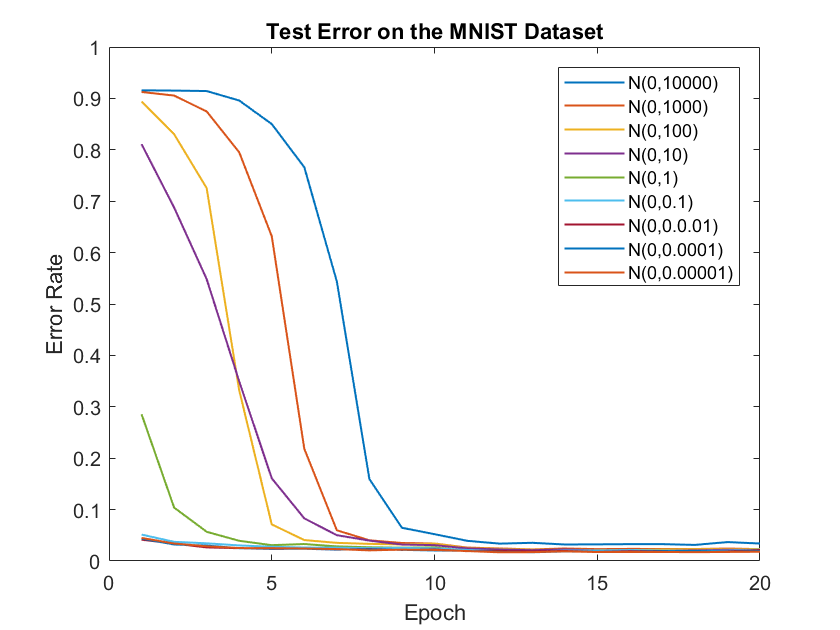
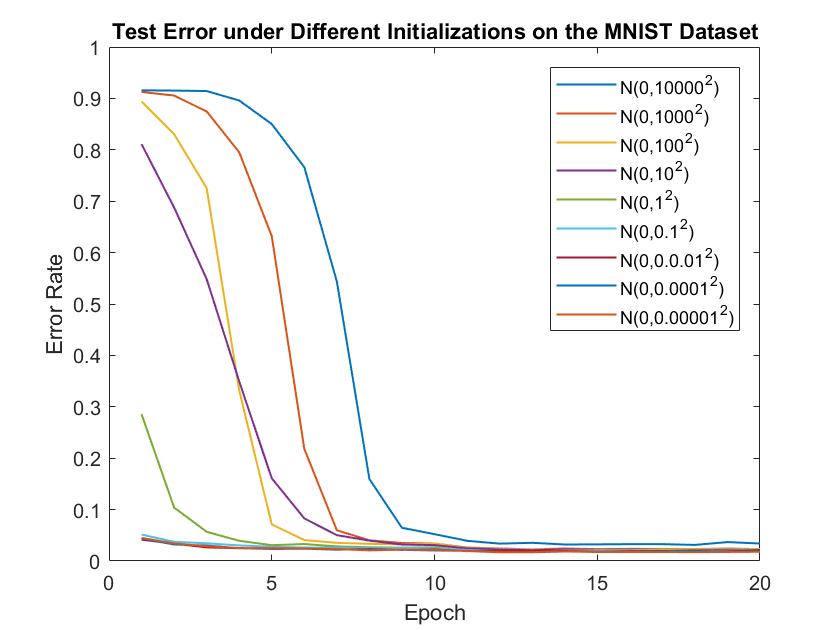
fix_typo

Changed region(s): [[0.65, 0.1206, 0.8667, 0.5429], [0.1238, 0.0302, 0.8976, 0.0603]]

diff --git a/SGD2/MNIST_Deep_MLP_Init_Comparison.m b/SGD2/MNIST_Deep_MLP_Init_Comparison.m
@@ -24,7 +24,7 @@ disp('SGD2 initialization tolerance tests.')
 
 
 %%%%%%%%%%%%%%%%%%%%%
-disp('Initialization with N(0,10000)')
+disp('Initialization with N(0,10000^{2})')
 
 learning_method=@sgd2; %training method: @sgd,@rmsprop,@adagrad,@adam
 opts.hidden_nodes=128;
@@ -57,7 +57,7 @@ clear opts;
 %%%%%%%%%%%%%%%%%%%%%%
 
 
-disp('Initialization with N(0,1000)')
+disp('Initialization with N(0,1000^{2})')
 learning_method=@sgd2; %training method: @sgd,@rmsprop,@adagrad,@adam
 opts.hidden_nodes=128;
 opts.layers=10;
@@ -92,7 +92,7 @@ clear opts;
 
 %%%%%%%%%%%%%%%%%%%%%
 
-disp('Initialization with N(0,100)')
+disp('Initialization with N(0,100^{2})')
 learning_method=@sgd2; %training method: @sgd,@rmsprop,@adagrad,@adam
 opts.hidden_nodes=128;
 opts.layers=10;
@@ -159,7 +159,7 @@ clear opts;
 
 %%%%%%%%%%%%%%%%%%%%%%%%%%%%%%%%%%%%%%%%%%%
 
-disp('Initialization with N(0,1)')
+disp('Initialization with N(0,1^{2})')
 learning_method=@sgd2; %training method: @sgd,@rmsprop,@adagrad,@adam
 opts.hidden_nodes=128;
 opts.layers=10;
@@ -192,7 +192,7 @@ clear opts;
 
 %%%%%%%%%%%%%%%%%%%%%%%%%%%%%%%%%%%%%%%%%%%
 
-disp('Initialization with N(0,0.1)')
+disp('Initialization with N(0,0.1^{2})')
 learning_method=@sgd2; %training method: @sgd,@rmsprop,@adagrad,@adam
 opts.hidden_nodes=128;
 opts.layers=10;
@@ -224,7 +224,7 @@ clear opts;
 
 
 %%%%%%%%%%%%%%%%%%%%%%%%%%%%%%%%%%%%%%%%%%%
-disp('Initialization with N(0,0.01)')
+disp('Initialization with N(0,0.01^{2})')
 learning_method=@sgd2; %training method: @sgd,@rmsprop,@adagrad,@adam
 opts.hidden_nodes=128;
 opts.layers=10;
@@ -259,7 +259,7 @@ clear opts;
 
 
 %%%%%%%%%%%%%%%%%%%%%%%%%%%%%%%%%%%%%%%%%%%
-disp('Initialization with N(0,0.001)')
+disp('Initialization with N(0,0.001^{2})')
 learning_method=@sgd2; %training method: @sgd,@rmsprop,@adagrad,@adam
 opts.hidden_nodes=128;
 opts.layers=10;
@@ -293,7 +293,7 @@ clear opts;
 
 
 %%%%%%%%%%%%%%%%%%%%%%%%%%%%%%%%%%%%%%%%%%%
-disp('Initialization with N(0,0.0001)')
+disp('Initialization with N(0,0.0001^{2})')
 
 learning_method=@sgd2; %training method: @sgd,@rmsprop,@adagrad,@adam
 opts.hidden_nodes=128;
@@ -342,15 +342,15 @@ end
 plot1 =plot(data);
 %ylim(axes1,[0 3]);
 
-set(plot1(1),'DisplayName','N(0,10000)','LineWidth',1);
-set(plot1(2),'DisplayName','N(0,1000)','LineWidth',1);
-set(plot1(3),'DisplayName','N(0,100)','LineWidth',1);
-set(plot1(4),'DisplayName','N(0,10)','LineWidth',1);
-set(plot1(5),'DisplayName','N(0,1)','LineWidth',1);
-set(plot1(6),'DisplayName','N(0,0.1)','LineWidth',1);
-set(plot1(7),'DisplayName','N(0,0.0.01)','LineWidth',1);
-set(plot1(8),'DisplayName','N(0,0.0001)','LineWidth',1);
-set(plot1(9),'DisplayName','N(0,0.00001)','LineWidth',1);
+set(plot1(1),'DisplayName','N(0,10000^{2})','LineWidth',1);
+set(plot1(2),'DisplayName','N(0,1000^{2})','LineWidth',1);
+set(plot1(3),'DisplayName','N(0,100^{2})','LineWidth',1);
+set(plot1(4),'DisplayName','N(0,10^{2})','LineWidth',1);
+set(plot1(5),'DisplayName','N(0,1^{2})','LineWidth',1);
+set(plot1(6),'DisplayName','N(0,0.1^{2})','LineWidth',1);
+set(plot1(7),'DisplayName','N(0,0.0.01^{2})','LineWidth',1);
+set(plot1(8),'DisplayName','N(0,0.0001^{2})','LineWidth',1);
+set(plot1(9),'DisplayName','N(0,0.00001^{2})','LineWidth',1);
 
 % Uncomment the following line to preserve the Y-limits of the axes
 % ylim(axes1,[0 3]);
@@ -360,9 +360,8 @@ legend(axes1,'show');
 
 
 xlabel('Epoch');
-title('Test Error on the MNIST Dataset');
+title('Test Error under Different Initializations on the MNIST Dataset');
 ylabel('Error Rate');
-
 
 
 
